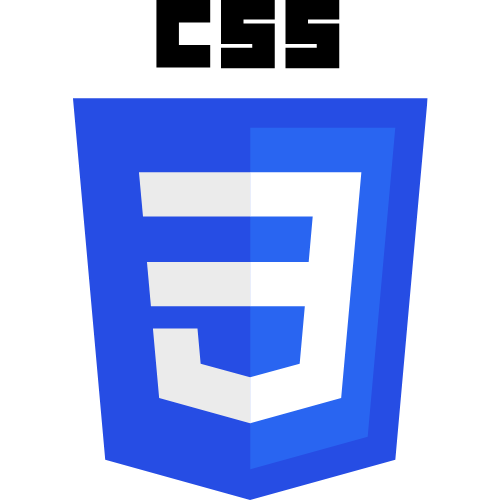
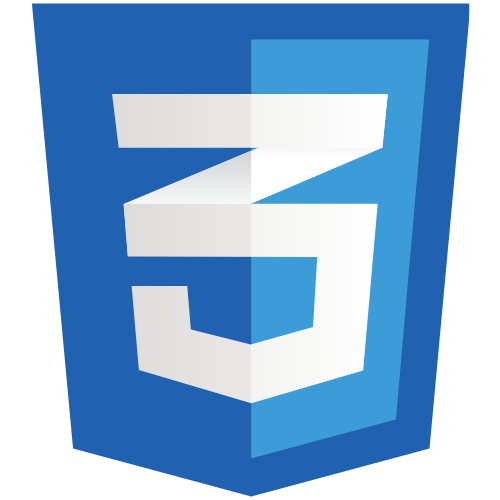
page skills

diff --git a/index.html b/index.html
@@ -45,7 +45,7 @@
                     </div>
                 </div>
                 <div class="home-img">
-                    <img src="img/sobre/perfil.png" alt="perfil">
+                    <img src="img/sobre/perfil.png" alt="perfil" style="border-radius:50%;"> 
                 </div>
             </div>
         </div>
@@ -69,7 +69,64 @@
     <!-- sobre section end-->
 
     <!-- skills section start-->
-
+    <section class="skills section padding" id="skills">
+        <div class="container">
+            <div class="section-title">
+                <span class="title">Skills</span>
+                <h2 class="sub-title">Habilidades</h2>
+            </div>
+            <div class="grid">
+                <!-- skills item start-->
+                <div class="skills-item">
+                    <div class="img-box">
+                        <img src="/img/skills/html5.png" alt="HTML5">
+                    </div>
+                    <h3>HTML5</h3>
+                </div>
+                <!-- skills item end-->
+                <!-- skills item start-->
+                <div class="skills-item">
+                    <div class="img-box">
+                        <img src="/img/skills/css3.png" alt="CSS3">
+                    </div>
+                    <h3>CSS3</h3>
+                </div>
+                <!-- skills item end-->
+                <!-- skills item start-->
+                <div class="skills-item">
+                    <div class="img-box">
+                        <img src="/img/skills/javascript.png" alt="JavaScript">
+                    </div>
+                    <h3>JavaScript</h3>
+                </div>
+                <!-- skills item end-->
+                <!-- skills item start-->
+                <div class="skills-item">
+                    <div class="img-box">
+                        <img src="/img/skills/python.png" alt="Python">
+                    </div>
+                    <h3>Python</h3>
+                </div>
+                <!-- skills item end-->
+                <!-- skills item start-->
+                <div class="skills-item">
+                    <div class="img-box">
+                        <img src="/img/skills/mysql.png" alt="MySQL">
+                    </div>
+                    <h3>MySQL</h3>
+                </div>
+                <!-- skills item end-->
+                <!-- skills item start-->
+                <div class="skills-item">
+                    <div class="img-box">
+                        <img src="/img/skills/git.png" alt="Git">
+                    </div>
+                    <h3>Git</h3>
+                </div>
+                <!-- skills item end-->
+            </div>
+        </div>
+    </section>
     <!-- skills section end-->
     
 </div>

diff --git a/css/style.css b/css/style.css
@@ -73,11 +73,6 @@ h1,h2,h3,h4,h5,h6{
 p{
     margin-bottom: 15px;
 }
-img{
-    vertical-align: middle;
-    border-radius: 50%;
-
-}
 ::selection{
     color: var(--text-white);
     background-color: var(--main-color);
@@ -269,7 +264,34 @@ img{
     grid-column: span 18; 
     text-align: justify;  
 }
-/* #  services */
+/* #  Skills */
+.skills-item{
+    grid-column: span 3;
+    text-align: center;
+}
+
+.skills-item .img-box{
+    padding: 50px;
+    text-align: center;
+    padding: 8px;
+    overflow: hidden;
+}
+.skills-item .img-box{
+    transition:  transform 0.5s ease;
+}
+.skills-item:hover .img-box{
+    transform: scale(1.2);
+}
+.skills-item img{
+    max-width: 200px;
+    max-height: 200px;
+}
+.skills-item h3{
+    text-transform: capitalize;
+    font-size: var(--fs-xl);
+    font-weight: 500;
+}
+
 /* #  pricing */
 /* #  team */
 /* #  contact* /
